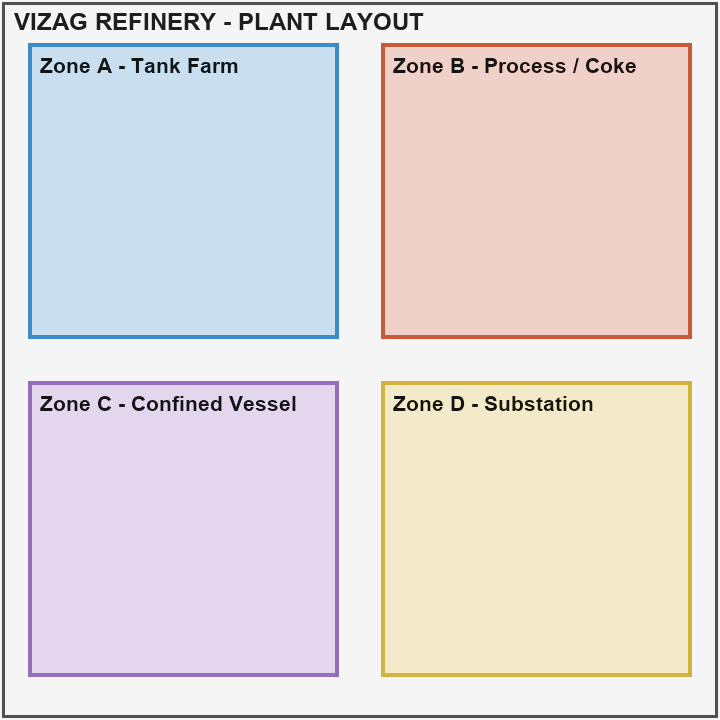
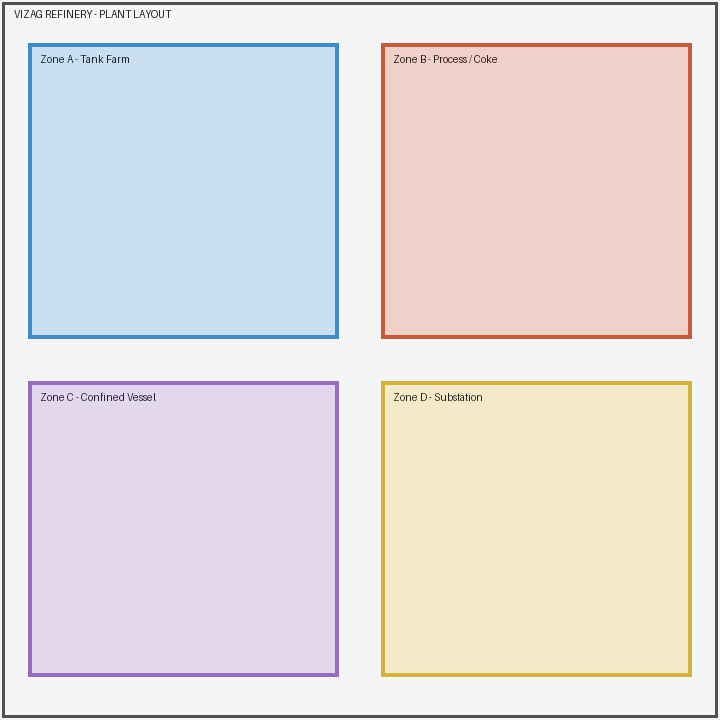
[phase4/no-excuses] Add ReAct LLM Agent, ViT Vision, and SQLite TSDB

diff --git a/utils/local_vision.py b/utils/local_vision.py
@@ -11,13 +11,16 @@ import numpy as np
 
 import torch
 import torch.nn as nn
+from transformers import ViTImageProcessor, ViTForImageClassification
 
 from schema import VisionResult, Hazard
 
 _ROOT = os.path.dirname(os.path.dirname(os.path.abspath(__file__)))
 _MODEL_PATH = os.path.join(_ROOT, "models", "hazard_model.pt")
+_VIT_PATH = os.path.join(_ROOT, "models", "vit_local")
 
 _mlp_cache = None
+_vit_cache = None
 
 # HSV feature: 3 channels x 8 bins = 24-d normalized histogram.
 _BINS = 8
@@ -95,15 +98,17 @@ def features(rgb: np.ndarray) -> np.ndarray:
 
 
 def _load_model():
-    global _mlp_cache
-    if _mlp_cache is not None:
-        return _mlp_cache
+    global _mlp_cache, _vit_cache
+    if _mlp_cache is not None and _vit_cache is not None:
+        return _mlp_cache, _vit_cache
+        
     try:
+        # Load MLP
         if os.path.isfile(_MODEL_PATH):
             d = torch.load(_MODEL_PATH, weights_only=True)
             mu = d["mu"]
             sigma = d["sigma"]
-            model = nn.Sequential(
+            mlp = nn.Sequential(
                 nn.Linear(len(mu), 32),
                 nn.ReLU(),
                 nn.Linear(32, 16),
@@ -111,29 +116,57 @@ def _load_model():
                 nn.Linear(16, 1),
                 nn.Sigmoid()
             )
-            model.load_state_dict(d['model_state'])
-            model.eval()
-            _mlp_cache = (model, mu, sigma)
-            return _mlp_cache
-    except Exception:
-        return None
-    return None
+            mlp.load_state_dict(d['model_state'])
+            mlp.eval()
+            _mlp_cache = (mlp, mu, sigma)
+            
+        # Load ViT
+        if os.path.isdir(_VIT_PATH):
+            processor = ViTImageProcessor.from_pretrained(_VIT_PATH, local_files_only=True)
+            vit = ViTForImageClassification.from_pretrained(_VIT_PATH, local_files_only=True)
+            vit.eval()
+            _vit_cache = (processor, vit)
+            
+    except Exception as e:
+        print(f"Model load error: {e}")
+        
+    return _mlp_cache, _vit_cache
 
 
 def _model_fire_prob(rgb: np.ndarray):
-    m = _load_model()
-    if m is None:
-        return None
-    model, mu, sigma = m
-    x = features(rgb)
-    if x.shape[0] != len(mu):
-        return None
-    sigma = np.where(sigma < 1e-6, 1.0, sigma)
-    x = (x - mu) / sigma
-    with torch.no_grad():
-        t = torch.tensor(x, dtype=torch.float32).unsqueeze(0)
-        prob = model(t).item()
-    return prob
+    mlp_res, vit_res = _load_model()
+    prob_mlp = 0.0
+    vit_labels = []
+    
+    if mlp_res is not None:
+        model, mu, sigma = mlp_res
+        x = features(rgb)
+        if x.shape[0] == len(mu):
+            sigma = np.where(sigma < 1e-6, 1.0, sigma)
+            x = (x - mu) / sigma
+            with torch.no_grad():
+                t = torch.tensor(x, dtype=torch.float32).unsqueeze(0)
+                prob_mlp = model(t).item()
+                
+    if vit_res is not None:
+        processor, vit = vit_res
+        inputs = processor(images=rgb, return_tensors="pt")
+        with torch.no_grad():
+            outputs = vit(**inputs)
+        logits = outputs.logits
+        probs = torch.nn.functional.softmax(logits, dim=-1)
+        top5_prob, top5_catid = torch.topk(probs, 5)
+        for i in range(top5_prob.size(1)):
+            label = vit.config.id2label[top5_catid[0][i].item()]
+            vit_labels.append(label)
+            
+    # Combine signals
+    final_prob = prob_mlp
+    danger_keywords = ["fire", "flame", "smoke", "match", "volcano", "stove"]
+    if any(any(kw in lbl.lower() for kw in danger_keywords) for lbl in vit_labels):
+        final_prob = max(final_prob, 0.85)
+        
+    return final_prob, vit_labels
 
 
 def _bbox_pct(mask: np.ndarray, w: int, h: int):
@@ -179,9 +212,12 @@ def detect(image_path: str) -> VisionResult:
                 cell = fire_mask[i * gh:(i + 1) * gh, j * gw:(j + 1) * gw]
                 if cell.size:
                     local = max(local, float(cell.mean()))
-        model_p = _model_fire_prob(rgb)
+        model_res = _model_fire_prob(rgb)
+        model_p, vit_labels = model_res if model_res is not None else (None, [])
         if model_p is not None:
-            notes.append(f"model p(fire)={model_p:.2f}")
+            notes.append(f"MLP p(fire)={model_p:.2f}")
+        if vit_labels:
+            notes.append(f"ViT Top: {', '.join(vit_labels[:2])}")
         # warm-core presence separates a real flame from pure-red text/logos/signs
         core_mask = ((H >= 10) & (H <= 30) & (S > 80) & (V > 180))
         core_frac = float(core_mask.sum()) / total

diff --git a/agents/action_agent.py b/agents/action_agent.py
@@ -1,0 +1,77 @@
+import os
+import paho.mqtt.publish as mqtt_publish
+from langchain_core.tools import tool
+from langchain_google_genai import ChatGoogleGenerativeAI
+from langchain.agents import create_react_agent, AgentExecutor
+from langchain_core.prompts import PromptTemplate
+
+@tool
+def issue_mqtt_command(zone: str, reason: str, score: float) -> str:
+    """Issues a shutdown command to the industrial zone actuator over MQTT."""
+    try:
+        mqtt_publish.single(
+            "vhackathon/actuator/shutdown", 
+            payload=f'{{"zone": "{zone}", "reason": "{reason}", "score": {score}}}',
+            hostname="test.mosquitto.org"
+        )
+        return "SHUTDOWN_COMMAND_ISSUED"
+    except Exception as e:
+        return f"SHUTDOWN_FAILED: {e}"
+
+class ActionAgent:
+    """True Agentic Reasoning node: evaluates physics output and autonomously decides to act."""
+    
+    def __init__(self):
+        self.api_key = os.environ.get("GEMINI_API_KEY", "").strip()
+        self.tools = [issue_mqtt_command]
+        if self.api_key:
+            self.llm = ChatGoogleGenerativeAI(model="gemini-1.5-flash", google_api_key=self.api_key, temperature=0.0)
+            template = '''Answer the following questions as best you can. You have access to the following tools:
+
+{tools}
+
+Use the following format:
+
+Question: the input question you must answer
+Thought: you should always think about what to do
+Action: the action to take, should be one of [{tool_names}]
+Action Input: the input to the action
+Observation: the result of the action
+... (this Thought/Action/Action Input/Observation can repeat N times)
+Thought: I now know the final answer
+Final Answer: the final answer to the original input question
+
+Begin!
+
+Question: {input}
+Thought:{agent_scratchpad}'''
+            self.prompt = PromptTemplate.from_template(template)
+            self.agent = create_react_agent(self.llm, self.tools, self.prompt)
+            self.agent_executor = AgentExecutor(agent=self.agent, tools=self.tools, verbose=False, handle_parsing_errors=True)
+        else:
+            self.agent_executor = None
+
+    def decide_and_act(self, zone: str, risk_score: float, forecast_minutes: float) -> str:
+        # Offline / Test fallback
+        if not self.agent_executor:
+            if risk_score >= 80 or (forecast_minutes is not None and forecast_minutes <= 5.0):
+                return issue_mqtt_command.invoke({"zone": zone, "reason": "CRITICAL_RISK", "score": risk_score})
+            return "NONE"
+
+        query = (
+            f"The current zone is {zone}. The compound risk score is {risk_score} out of 100. "
+            f"The forecasted time until a critical IDLH (lethal) gas limit is reached is {forecast_minutes} minutes. "
+            f"If the risk score is >= 80 OR the forecast is <= 5.0 minutes, you MUST use the issue_mqtt_command tool to shut down the plant. "
+            f"Otherwise, do not issue the command. What did you decide?"
+        )
+        
+        try:
+            res = self.agent_executor.invoke({"input": query})
+            ans = res["output"].upper()
+            if "SHUTDOWN" in ans or "ISSUED" in ans:
+                return "SHUTDOWN_COMMAND_ISSUED"
+            return "NONE"
+        except Exception as e:
+            if risk_score >= 80 or (forecast_minutes is not None and forecast_minutes <= 5.0):
+                return issue_mqtt_command.invoke({"zone": zone, "reason": "CRITICAL_RISK_FALLBACK", "score": risk_score})
+            return f"ERROR: {e}"

diff --git a/backend/main.py b/backend/main.py
@@ -32,7 +32,6 @@ from fastapi.middleware.cors import CORSMiddleware  # noqa: E402
 from fastapi.staticfiles import StaticFiles  # noqa: E402
 from fastapi.responses import FileResponse  # noqa: E402
 from pydantic import BaseModel, Field  # noqa: E402
-import paho.mqtt.publish as mqtt_publish  # noqa: E402
 
 # Light imports only (no torch/chromadb here).
 from schema import (SensorReading, SensorInput, ComplianceInput, QueryInput,  # noqa: E402
@@ -40,6 +39,7 @@ from schema import (SensorReading, SensorInput, ComplianceInput, QueryInput,  # 
 from agents.safety_agent import SafetyAgent  # noqa: E402
 from agents.compliance_agent import ComplianceAgent  # noqa: E402
 from agents.output_agent import OutputAgent  # noqa: E402
+from agents.action_agent import ActionAgent  # noqa: E402
 from utils.interventions import rank_interventions as _rule_interventions  # noqa: E402,F401
 from utils.risk_model import graduated_risk, rank_interventions  # noqa: E402
 from utils.confidence import assess_confidence  # noqa: E402
@@ -59,13 +59,26 @@ app.add_middleware(
 _safety = SafetyAgent()
 _compliance = ComplianceAgent()
 _output = OutputAgent()
+_action = ActionAgent()
 _knowledge = None  # lazy
 _vision = None  # lazy
 
-from collections import defaultdict, deque
+import sqlite3
 
-# Stateful edge cache for forecasting
-_ZONE_HISTORY = defaultdict(lambda: {"gas": deque(maxlen=10), "oxygen": deque(maxlen=10)})
+_DB_PATH = os.path.join(os.path.dirname(os.path.dirname(os.path.abspath(__file__))), "telemetry.db")
+def _init_db():
+    with sqlite3.connect(_DB_PATH) as conn:
+        conn.execute('''
+            CREATE TABLE IF NOT EXISTS zone_history (
+                id INTEGER PRIMARY KEY AUTOINCREMENT,
+                zone TEXT NOT NULL,
+                gas_ppm REAL NOT NULL,
+                oxygen_pct REAL NOT NULL,
+                timestamp DATETIME DEFAULT CURRENT_TIMESTAMP
+            )
+        ''')
+        conn.commit()
+_init_db()
 
 def _get_knowledge():
     global _knowledge
@@ -164,11 +177,23 @@ def scan(req: ScanRequest):
     if reading.temp_c >= sp["temp_c"]:
         single.append("temperature")
 
-    # Update history and generate forecast
-    hist = _ZONE_HISTORY[reading.zone]
-    hist["gas"].append(reading.gas_ppm)
-    hist["oxygen"].append(reading.oxygen_pct)
-    forecast = forecast_summary(list(hist["gas"]), list(hist["oxygen"]))
+    # Update history and generate forecast via SQLite
+    with sqlite3.connect(_DB_PATH) as conn:
+        conn.row_factory = sqlite3.Row
+        conn.execute(
+            "INSERT INTO zone_history (zone, gas_ppm, oxygen_pct) VALUES (?, ?, ?)",
+            (reading.zone, reading.gas_ppm, reading.oxygen_pct)
+        )
+        conn.commit()
+        cursor = conn.execute(
+            "SELECT gas_ppm, oxygen_pct FROM zone_history WHERE zone = ? ORDER BY id DESC LIMIT 10",
+            (reading.zone,)
+        )
+        rows = cursor.fetchall()
+        
+    hist_gas = [row["gas_ppm"] for row in reversed(rows)]
+    hist_oxygen = [row["oxygen_pct"] for row in reversed(rows)]
+    forecast = forecast_summary(hist_gas, hist_oxygen)
 
     result = {
         "risk_score": grad["score"],
@@ -193,19 +218,9 @@ def scan(req: ScanRequest):
         "forecast": forecast
     }
 
-    # Close the Loop: Autonomously publish MQTT shutdown if risk is CRITICAL
-    if grad["score"] >= 80 or (forecast and forecast.get("minutes_to_gas_idlh") is not None and forecast.get("minutes_to_gas_idlh") <= 5.0):
-        try:
-            mqtt_publish.single(
-                "vhackathon/actuator/shutdown", 
-                payload=f'{{"zone": "{reading.zone}", "reason": "CRITICAL_RISK", "score": {grad["score"]}}}',
-                hostname="test.mosquitto.org"
-            )
-            result["actuation"] = "SHUTDOWN_COMMAND_ISSUED"
-        except Exception as e:
-            result["actuation"] = f"SHUTDOWN_FAILED: {e}"
-    else:
-        result["actuation"] = "NONE"
+    # Close the Loop: Autonomously publish MQTT shutdown if risk is CRITICAL via ActionAgent
+    forecast_min = forecast.get("minutes_to_gas_idlh") if forecast else None
+    result["actuation"] = _action.decide_and_act(reading.zone, grad["score"], forecast_min)
 
     event_data = {
         "type": "api_scan", 

diff --git a/models/download_vit.py b/models/download_vit.py
@@ -1,0 +1,14 @@
+import os
+from transformers import ViTImageProcessor, ViTForImageClassification
+
+def main():
+    print("Downloading ViT...")
+    processor = ViTImageProcessor.from_pretrained('google/vit-base-patch16-224')
+    model = ViTForImageClassification.from_pretrained('google/vit-base-patch16-224')
+    out_dir = os.path.join(os.path.dirname(__file__), 'vit_local')
+    processor.save_pretrained(out_dir)
+    model.save_pretrained(out_dir)
+    print(f"ViT saved to {out_dir}")
+
+if __name__ == "__main__":
+    main()